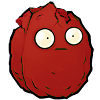
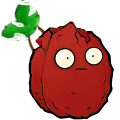
fixed explode nut

diff --git a/Lawn/Plant.cpp b/Lawn/Plant.cpp
@@ -271,8 +271,8 @@ void Plant::PlantInitialize(int theGridX, int theGridY, SeedType theSeedType, Se
         break;
     case SeedType::SEED_EXPLODE_NUT:
         mPlantHealth = 2000;
-        mBlinkCountdown = 1000 + Sexy::Rand(1000);
-        aBodyReanim->mColorOverride = Color(255, 64, 64);
+        mBlinkCountdown = INT32_MAX; // 1000 + Sexy::Rand(1000);
+        //aBodyReanim->mColorOverride = Color(255, 64, 64);
         break;
     case SeedType::SEED_EXPLODE_O_NUT:
         mPlantHealth = 4000;
@@ -2677,7 +2677,7 @@ void Plant::UpdateReanimColor()
     {
         aColorOverride = GetFlashingColor(mBoard->mMainCounter, 90);
     }
-    else if (mSeedType == SeedType::SEED_EXPLODE_O_NUT || mSeedType == SeedType::SEED_EXPLODE_NUT)
+    else if (mSeedType == SeedType::SEED_EXPLODE_O_NUT) // || mSeedType == SeedType::SEED_EXPLODE_NUT)
     {
         aColorOverride = Color(255, 64, 64);
     }
@@ -3040,10 +3040,13 @@ void Plant::DoBlink()
         (mSeedType == SeedType::SEED_GARLIC && aBodyReanim->GetImageOverride("anim_face") == IMAGE_REANIM_GARLIC_BODY3))
         return;
 
-    if (mSeedType == SeedType::SEED_WALLNUT || mSeedType == SeedType::SEED_TALLNUT || mSeedType == SeedType::SEED_EXPLODE_NUT ||
+    if (mSeedType == SeedType::SEED_WALLNUT || mSeedType == SeedType::SEED_TALLNUT ||
         mSeedType == SeedType::SEED_EXPLODE_O_NUT || mSeedType == SeedType::SEED_GIANT_WALLNUT)
     {
         mBlinkCountdown = 1000 + Rand(1000);
+    }
+    if (mSeedType == SeedType::SEED_EXPLODE_NUT) {
+        mBlinkCountdown = INT32_MAX;
     }
 
     Reanimation* aBlinkReanim = AttachBlinkAnim(aBodyReanim);
@@ -3102,7 +3105,7 @@ void Plant::AnimateNuts()
     Image* aCracked1;
     Image* aCracked2;
     const char* aTrackToOverride;
-    if (mSeedType == SeedType::SEED_WALLNUT || mSeedType == SeedType::SEED_EXPLODE_NUT)
+    if (mSeedType == SeedType::SEED_WALLNUT)
     {
         aCracked1 = IMAGE_REANIM_WALLNUT_CRACKED1;
         aCracked2 = IMAGE_REANIM_WALLNUT_CRACKED2;
@@ -3113,6 +3116,12 @@ void Plant::AnimateNuts()
         aCracked1 = IMAGE_REANIM_TALLNUT_CRACKED1;
         aCracked2 = IMAGE_REANIM_TALLNUT_CRACKED2;
         aTrackToOverride = "anim_idle";
+    }
+    else if (mSeedType == SeedType::SEED_EXPLODE_NUT)
+    {
+        aCracked1 = IMAGE_REANIM_WALLNUTO_CRACKED1;
+        aCracked2 = IMAGE_REANIM_WALLNUTO_CRACKED2;
+        aTrackToOverride = "anim_face";
     }
     //else if (mSeedType == SeedType::SEED_WALLNUTO)
     //{
@@ -3148,7 +3157,13 @@ void Plant::AnimateNuts()
     }
     else
     {
-        aBodyReanim->SetImageOverride(aTrackToOverride, nullptr);
+        if (mSeedType == SEED_EXPLODE_NUT) {
+
+            aBodyReanim->SetImageOverride(aTrackToOverride, IMAGE_REANIM_WALLNUT_BODYO);
+        }
+        else {
+            aBodyReanim->SetImageOverride(aTrackToOverride, nullptr);
+        }
     }
 
     if (IsInPlay() && !mApp->IsIZombieLevel())

diff --git a/Resources.cpp b/Resources.cpp
@@ -1016,6 +1016,9 @@ Image* Sexy::IMAGE_REANIM_TREE_BG;
 Image* Sexy::IMAGE_REANIM_WALLNUT_BODY;
 Image* Sexy::IMAGE_REANIM_WALLNUT_CRACKED1;
 Image* Sexy::IMAGE_REANIM_WALLNUT_CRACKED2;
+Image* Sexy::IMAGE_REANIM_WALLNUT_BODYO;
+Image* Sexy::IMAGE_REANIM_WALLNUTO_CRACKED1;
+Image* Sexy::IMAGE_REANIM_WALLNUTO_CRACKED2;
 Image* Sexy::IMAGE_REANIM_WINTERMELON_PROJECTILE;
 Image* Sexy::IMAGE_REANIM_ZENGARDEN_BUGSPRAY_BOTTLE;
 Image* Sexy::IMAGE_REANIM_ZOMBIE_BACKUP_INNERARM_HAND;
@@ -1375,6 +1378,10 @@ bool Sexy::ExtractLoadingImagesResources(ResourceManager *theManager)
 		IMAGE_REANIM_WALLNUT_BODY = aMgr.GetImageThrow("IMAGE_REANIM_WALLNUT_BODY");
 		IMAGE_REANIM_WALLNUT_CRACKED1 = aMgr.GetImageThrow("IMAGE_REANIM_WALLNUT_CRACKED1");
 		IMAGE_REANIM_WALLNUT_CRACKED2 = aMgr.GetImageThrow("IMAGE_REANIM_WALLNUT_CRACKED2");
+
+		IMAGE_REANIM_WALLNUT_BODYO = aMgr.GetImageThrow("IMAGE_REANIM_WALLNUT_BODYO");
+		IMAGE_REANIM_WALLNUTO_CRACKED1 = aMgr.GetImageThrow("IMAGE_REANIM_WALLNUTO_CRACKED1");
+		IMAGE_REANIM_WALLNUTO_CRACKED2 = aMgr.GetImageThrow("IMAGE_REANIM_WALLNUTO_CRACKED2");
 		IMAGE_REANIM_WINTERMELON_PROJECTILE = aMgr.GetImageThrow("IMAGE_REANIM_WINTERMELON_PROJECTILE");
 		IMAGE_REANIM_ZENGARDEN_BUGSPRAY_BOTTLE = aMgr.GetImageThrow("IMAGE_REANIM_ZENGARDEN_BUGSPRAY_BOTTLE");
 		IMAGE_REANIM_ZOMBIE_BACKUP_INNERARM_HAND = aMgr.GetImageThrow("IMAGE_REANIM_ZOMBIE_BACKUP_INNERARM_HAND");
@@ -2924,6 +2931,9 @@ const char* Sexy::GetStringIdById(int theId)
 		case IMAGE_REANIM_WALLNUT_BODY_ID: return "IMAGE_REANIM_WALLNUT_BODY";
 		case IMAGE_REANIM_WALLNUT_CRACKED1_ID: return "IMAGE_REANIM_WALLNUT_CRACKED1";
 		case IMAGE_REANIM_WALLNUT_CRACKED2_ID: return "IMAGE_REANIM_WALLNUT_CRACKED2";
+		case IMAGE_REANIM_WALLNUT_BODYO_ID: return "IMAGE_REANIM_WALLNUT_BODYO";
+		case IMAGE_REANIM_WALLNUTO_CRACKED1_ID: return "IMAGE_REANIM_WALLNUTO_CRACKED1";
+		case IMAGE_REANIM_WALLNUTO_CRACKED2_ID: return "IMAGE_REANIM_WALLNUTO_CRACKED2";
 		case IMAGE_REANIM_TALLNUT_CRACKED1_ID: return "IMAGE_REANIM_TALLNUT_CRACKED1";
 		case IMAGE_REANIM_TALLNUT_CRACKED2_ID: return "IMAGE_REANIM_TALLNUT_CRACKED2";
 		case IMAGE_REANIM_PUMPKIN_DAMAGE1_ID: return "IMAGE_REANIM_PUMPKIN_DAMAGE1";

diff --git a/Resources.h b/Resources.h
@@ -408,6 +408,9 @@ namespace Sexy
 	extern Image* IMAGE_REANIM_WALLNUT_BODY;
 	extern Image* IMAGE_REANIM_WALLNUT_CRACKED1;
 	extern Image* IMAGE_REANIM_WALLNUT_CRACKED2;
+	extern Image* IMAGE_REANIM_WALLNUT_BODYO;
+	extern Image* IMAGE_REANIM_WALLNUTO_CRACKED1;
+	extern Image* IMAGE_REANIM_WALLNUTO_CRACKED2;
 	extern Image* IMAGE_REANIM_WINTERMELON_PROJECTILE;
 	extern Image* IMAGE_REANIM_ZENGARDEN_BUGSPRAY_BOTTLE;
 	extern Image* IMAGE_REANIM_ZOMBIE_BACKUP_INNERARM_HAND;
@@ -1019,6 +1022,9 @@ namespace Sexy
 		IMAGE_REANIM_WALLNUT_BODY_ID,
 		IMAGE_REANIM_WALLNUT_CRACKED1_ID,
 		IMAGE_REANIM_WALLNUT_CRACKED2_ID,
+		IMAGE_REANIM_WALLNUT_BODYO_ID,
+		IMAGE_REANIM_WALLNUTO_CRACKED1_ID,
+		IMAGE_REANIM_WALLNUTO_CRACKED2_ID,
 		IMAGE_REANIM_TALLNUT_CRACKED1_ID,
 		IMAGE_REANIM_TALLNUT_CRACKED2_ID,
 		IMAGE_REANIM_PUMPKIN_DAMAGE1_ID,
